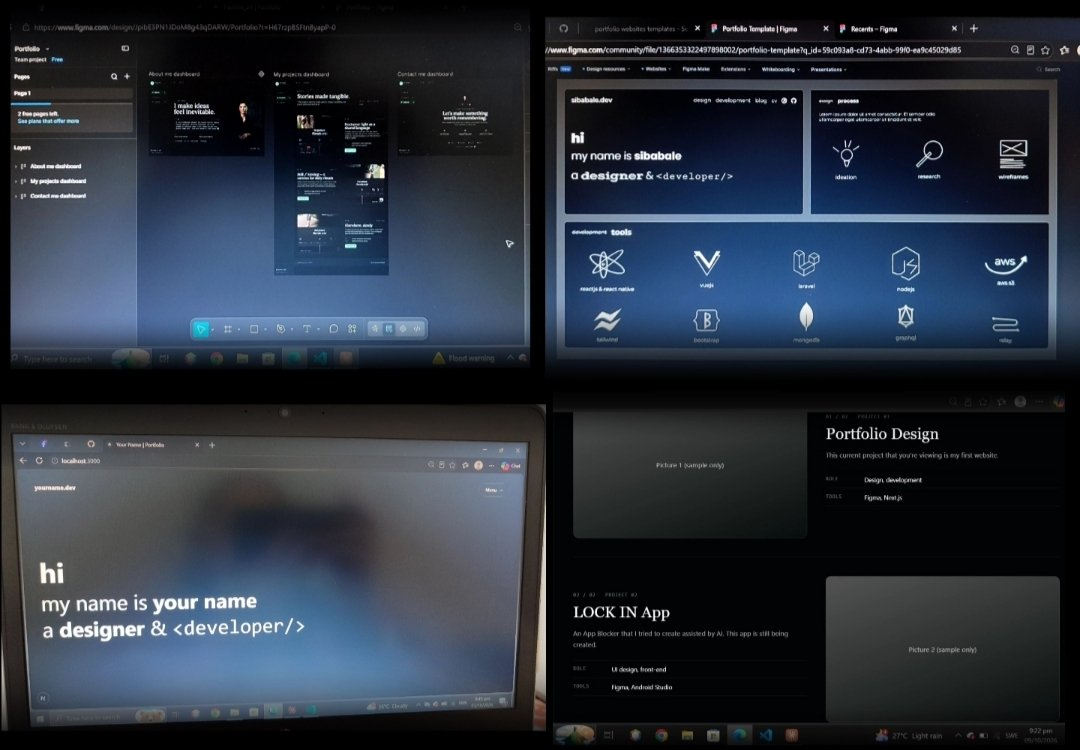
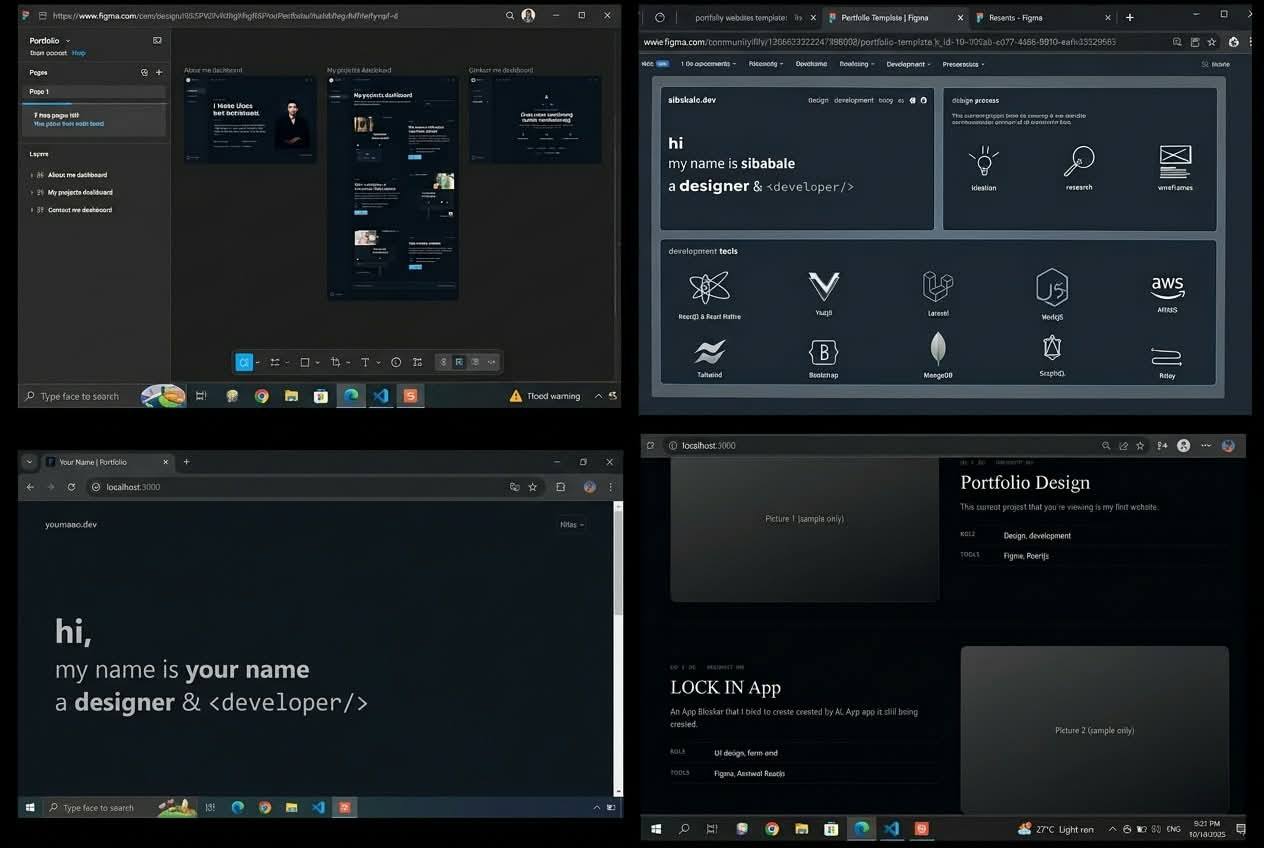
Add GitHub buttons to Works page

diff --git a/app/works/page.tsx b/app/works/page.tsx
@@ -8,7 +8,7 @@ const projects = [
     role: "Design, development",
     tools: "Figma, Next.js",
     image: "/works/portfolio.jpg",
-    href: "#",
+    href: "https://github.com/PS24-design/pauline-portfolio.git",
   },
   {
     title: "LOCK IN App",
@@ -17,7 +17,7 @@ const projects = [
     role: "UI design, front-end",
     tools: "Figma, Android Studio",
     image: "/works/lock_in.jpg",
-    href: "#",
+    href: "https://github.com/PS24-design/lock_in_app.git",
   },
 ];
 
@@ -49,7 +49,7 @@ export default function ProjectsPage() {
         <article key={p.title} className={`project${i % 2 === 1 ? " reverse" : ""}`}>
           <div className="media">
             {p.image ? (
-              // eslint-disable-next-line @next/next/no-img-element
+              
               <img src={p.image} alt={p.title} />
             ) : (
               <span className="media-text">Picture {i + 1} (sample only)</span>
@@ -73,6 +73,18 @@ export default function ProjectsPage() {
                 <span>{p.tools}</span>
               </div>
             </div>           
+
+            {p.href !== "#" && (
+              <a
+                href={p.href}
+                target="_blank"
+                rel="noopener noreferrer"
+                className="btn-accent"
+              >
+                View on GitHub ↗
+              </a>
+            )}
+            
           </div>
         </article>
       ))}

diff --git a/app/contact/page.tsx b/app/contact/page.tsx
@@ -3,7 +3,7 @@ import Shell from "../components/Shell";
 // Edit your real details here.
 const phone = "+63 9948947714";
 const email = "paulinelaurice246@gmail.com";
-const location = "#60 Europe St. Hillside Subd., Buhangin Pob, Davao City";
+const location = "Davao City";
 
 const socials = [
   { name: "GitHub", href: "https://github.com/PS24-design" },

diff --git a/app/portfolio.css b/app/portfolio.css
@@ -470,6 +470,16 @@
   filter: brightness(1.1);
 }
 
+.btn-accent {
+  width: fit-content;
+  justify-self: start;
+  align-self: start;
+}
+
+.project-info .btn-accent {
+  padding: 9px 16px;
+}
+
 /* ---------- Contact ---------- */
 
 .contact {

diff --git a/app/page.tsx b/app/page.tsx
@@ -11,7 +11,7 @@ const profile = {
 const options = [
   {
     title: "About me",
-    info: "My work psreferences",
+    info: "My work preferences",
     icon: "/icons/about_me.png",
     href: "/about",
   },
